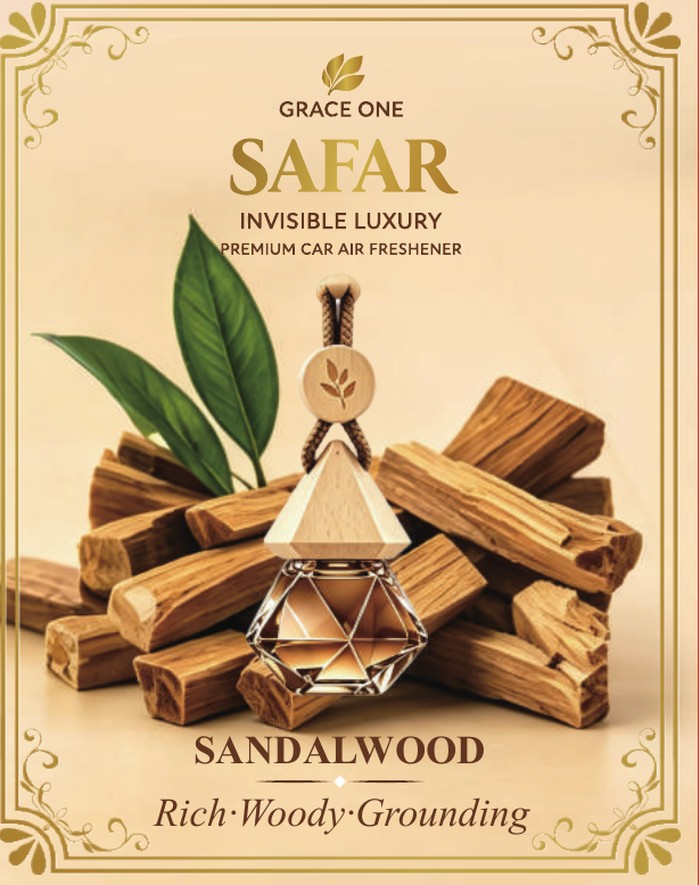
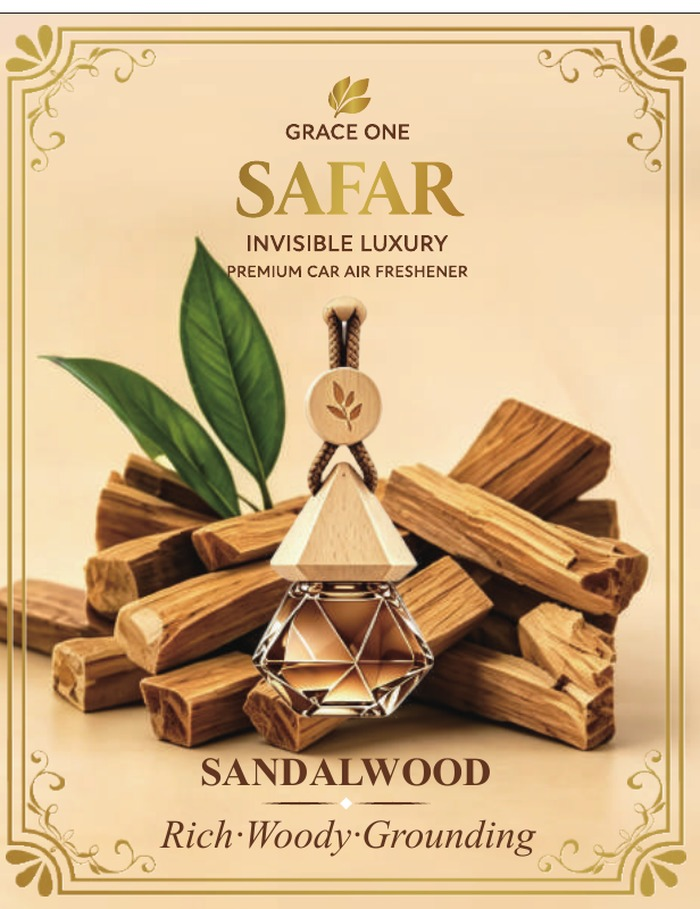
Fix cover image border cropping and add 10ml differentiator
Covers were cutting off the gold corner flourishes and bleeding a
sliver of the neighboring dieline panel; re-cropped with corrected
boundaries so the full ornate border shows cleanly on all 5
fragrances. Also regenerated the bottle-detail crops from the same
fix (accidentally clobbered Lavender's campaign detail shot in the
process — restored it from source right after).

Added a "10ml Bottle" point to Why SAFAR and each product page's
facts list, noting most competitors sell 7-8ml.

diff --git a/sandalwood.html b/sandalwood.html
@@ -54,6 +54,7 @@
           <li>Alcohol-free · Phthalate-free · IFRA compliant</li>
           <li>Lasts up to 45 days</li>
           <li>2-in-1: vent clip + hanging cord included</li>
+          <li>10ml bottle — more than the 7-8ml most others sell</li>
         </ul>
         <div class="hero-actions">
           <a class="btn btn-primary btn-large" href="https://wa.me/919999987609?text=Hi%20Grace%20One!%20I%27d%20like%20to%20order%20SAFAR%20Sandalwood." target="_blank" rel="noopener">Order on WhatsApp</a>

diff --git a/lavender.html b/lavender.html
@@ -55,6 +55,7 @@
           <li>Alcohol-free · Phthalate-free · IFRA compliant</li>
           <li>Lasts up to 45 days</li>
           <li>2-in-1: vent clip + hanging cord included</li>
+          <li>10ml bottle — more than the 7-8ml most others sell</li>
         </ul>
         <div class="hero-actions">
           <a class="btn btn-primary btn-large" href="https://wa.me/919999987609?text=Hi%20Grace%20One!%20I%27d%20like%20to%20order%20SAFAR%20Lavender." target="_blank" rel="noopener">Order on WhatsApp</a>

diff --git a/jasmine.html b/jasmine.html
@@ -54,6 +54,7 @@
           <li>Alcohol-free · Phthalate-free · IFRA compliant</li>
           <li>Lasts up to 45 days</li>
           <li>2-in-1: vent clip + hanging cord included</li>
+          <li>10ml bottle — more than the 7-8ml most others sell</li>
         </ul>
         <div class="hero-actions">
           <a class="btn btn-primary btn-large" href="https://wa.me/919999987609?text=Hi%20Grace%20One!%20I%27d%20like%20to%20order%20SAFAR%20Jasmine." target="_blank" rel="noopener">Order on WhatsApp</a>

diff --git a/vanilla.html b/vanilla.html
@@ -54,6 +54,7 @@
           <li>Alcohol-free · Phthalate-free · IFRA compliant</li>
           <li>Lasts up to 45 days</li>
           <li>2-in-1: vent clip + hanging cord included</li>
+          <li>10ml bottle — more than the 7-8ml most others sell</li>
         </ul>
         <div class="hero-actions">
           <a class="btn btn-primary btn-large" href="https://wa.me/919999987609?text=Hi%20Grace%20One!%20I%27d%20like%20to%20order%20SAFAR%20Vanilla." target="_blank" rel="noopener">Order on WhatsApp</a>

diff --git a/musk.html b/musk.html
@@ -54,6 +54,7 @@
           <li>Alcohol-free · Phthalate-free · IFRA compliant</li>
           <li>Lasts up to 45 days</li>
           <li>2-in-1: vent clip + hanging cord included</li>
+          <li>10ml bottle — more than the 7-8ml most others sell</li>
         </ul>
         <div class="hero-actions">
           <a class="btn btn-primary btn-large" href="https://wa.me/919999987609?text=Hi%20Grace%20One!%20I%27d%20like%20to%20order%20SAFAR%20Musk." target="_blank" rel="noopener">Order on WhatsApp</a>

diff --git a/index.html b/index.html
@@ -182,6 +182,11 @@
           <h3>2-in-1 Design</h3>
           <p>Vent clip + hanging cord included — mount it however you like.</p>
         </div>
+        <div class="feature">
+          <div class="feature-icon">🧴</div>
+          <h3>10ml Bottle</h3>
+          <p>More fragrance per bottle than the 7-8ml most others sell — the only 10ml in the market.</p>
+        </div>
       </div>
     </div>
   </section>
